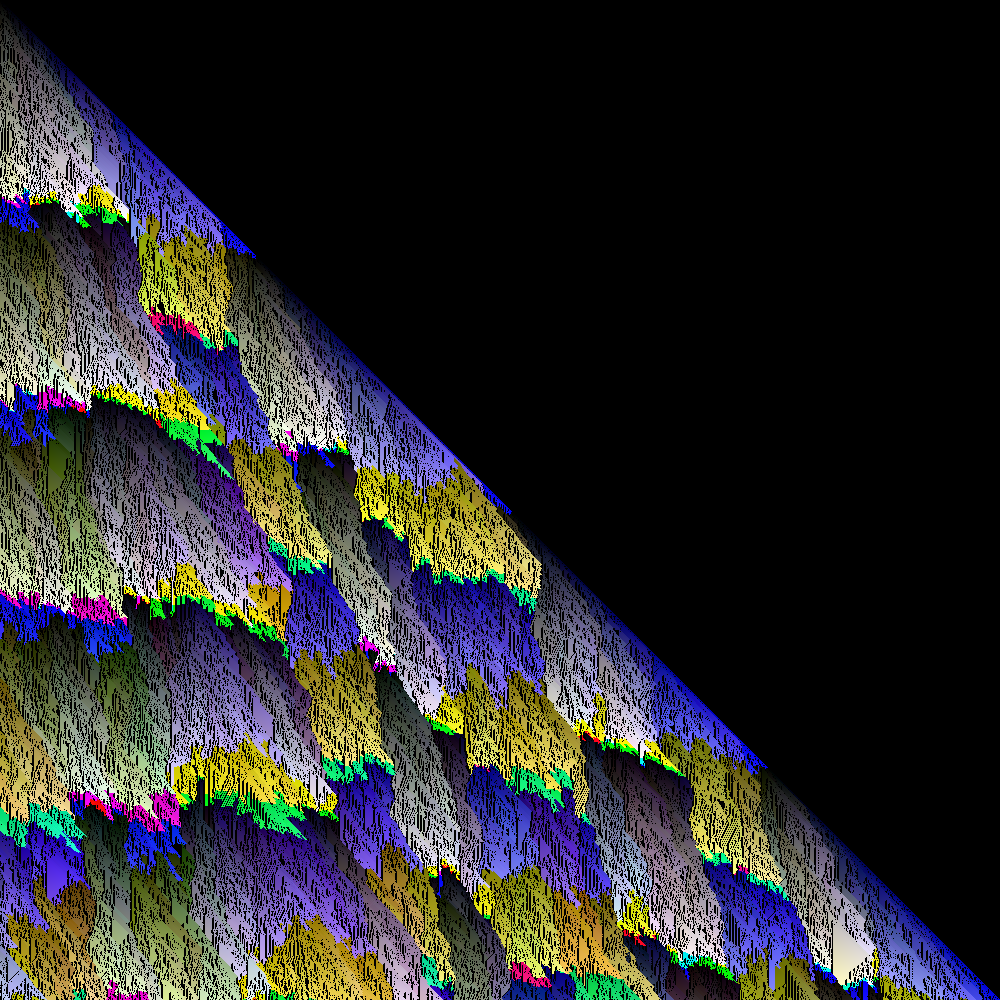
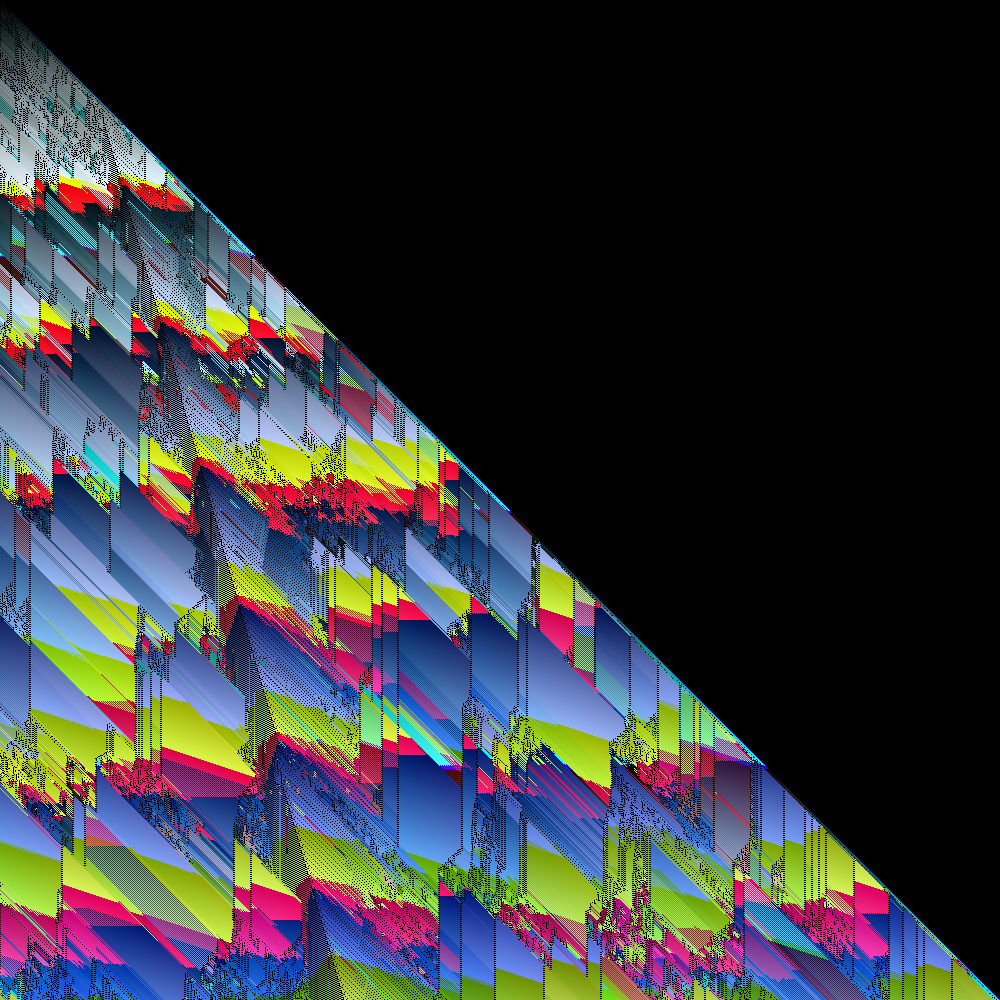
Fixes

diff --git a/moa7.php b/moa7.php
@@ -24,8 +24,8 @@ class Pixel {
 	}
 }
 
-$width = 2000;
-$height = 2000;
+$width = 1000;
+$height = 1000;
 $image = imagecreatetruecolor( $width, $height );
 
 $firstPixel = new Pixel( 0, 0, 0, 0, 0 );
@@ -46,25 +46,26 @@ for ( $y = 0; $y < $height; $y++ ) {
 			$leftPixel = $currentRow[ $x - 1 ];
 			$leftPixel->r++;
 		} else {
-			$leftX = $previousPixel->x - 1;
-			$leftY = $previousPixel->y + 1;
-			$leftR = $previousPixel->r + 1;
-			$leftG = $previousPixel->g;
-			$leftB = $previousPixel->b;
-			$leftPixel = new Pixel( $leftX, $leftY, $leftR, $leftG, $leftB );
+			$leftPixel = $previousPixel;
+			$leftPixel->x--;
+			$leftPixel->y++;
+			$leftPixel->r++;
 		}
-		$currentRow[ $leftX ] = $leftPixel;
+		$currentRow[ $leftPixel->x ] = $leftPixel;
 
 		// Middle pixel
 		if ( array_key_exists( $x, $currentRow ) ) {
 			$middlePixel = $currentRow[ $x ];
 			$middlePixel->g++;
 		} else {
-			$middlePixel = $previousPixel;
-			$middlePixel->y++;
-			$middlePixel->g++;
+			$middleX = $previousPixel->x;
+			$middleY = $previousPixel->y + 1;
+			$middleR = $previousPixel->r;
+			$middleG = $previousPixel->g + 1;
+			$middleB = $previousPixel->b;
+			$middlePixel = new Pixel( $middleX, $middleY, $middleR, $middleG, $middleB );
 		}
-		$currentRow[ $middlePixel->x ] = $middlePixel;
+		$currentRow[ $middleX ] = $middlePixel;
 
 		// Right pixel
 		if ( array_key_exists( $x + 1, $currentRow ) ) {

diff --git a/moa8.php b/moa8.php
@@ -24,8 +24,8 @@ class Pixel {
 	}
 }
 
-$width = 1000;
-$height = 1000;
+$width = 2000;
+$height = 2000;
 $image = imagecreatetruecolor( $width, $height );
 
 $firstPixel = new Pixel( 0, 0, 0, 0, 0 );
@@ -46,26 +46,25 @@ for ( $y = 0; $y < $height; $y++ ) {
 			$leftPixel = $currentRow[ $x - 1 ];
 			$leftPixel->r++;
 		} else {
-			$leftPixel = $previousPixel;
-			$leftPixel->x--;
-			$leftPixel->y++;
-			$leftPixel->r++;
+			$leftX = $previousPixel->x - 1;
+			$leftY = $previousPixel->y + 1;
+			$leftR = $previousPixel->r + 1;
+			$leftG = $previousPixel->g;
+			$leftB = $previousPixel->b;
+			$leftPixel = new Pixel( $leftX, $leftY, $leftR, $leftG, $leftB );
 		}
-		$currentRow[ $leftPixel->x ] = $leftPixel;
+		$currentRow[ $leftX ] = $leftPixel;
 
 		// Middle pixel
 		if ( array_key_exists( $x, $currentRow ) ) {
 			$middlePixel = $currentRow[ $x ];
 			$middlePixel->g++;
 		} else {
-			$middleX = $previousPixel->x;
-			$middleY = $previousPixel->y + 1;
-			$middleR = $previousPixel->r;
-			$middleG = $previousPixel->g + 1;
-			$middleB = $previousPixel->b;
-			$middlePixel = new Pixel( $middleX, $middleY, $middleR, $middleG, $middleB );
+			$middlePixel = $previousPixel;
+			$middlePixel->y++;
+			$middlePixel->g++;
 		}
-		$currentRow[ $middleX ] = $middlePixel;
+		$currentRow[ $middlePixel->x ] = $middlePixel;
 
 		// Right pixel
 		if ( array_key_exists( $x + 1, $currentRow ) ) {

diff --git a/moa5.php b/moa5.php
@@ -46,26 +46,25 @@ for ( $y = 0; $y < $height; $y++ ) {
 			$leftPixel = $currentRow[ $x - 1 ];
 			$leftPixel->r++;
 		} else {
-			$leftPixel = clone $previousPixel;
-			$leftPixel->x--;
-			$leftPixel->y++;
-			$leftPixel->r++;
+			$leftX = $previousPixel->x - 1;
+			$leftY = $previousPixel->y + 1;
+			$leftR = $previousPixel->r + 1;
+			$leftG = $previousPixel->g;
+			$leftB = $previousPixel->b;
+			$leftPixel = new Pixel( $leftX, $leftY, $leftR, $leftG, $leftB );
 		}
-		$currentRow[ $leftPixel->x ] = $leftPixel;
+		$currentRow[ $leftX ] = $leftPixel;
 
 		// Middle pixel
 		if ( array_key_exists( $x, $currentRow ) ) {
 			$middlePixel = $currentRow[ $x ];
 			$middlePixel->g++;
 		} else {
-			$middleX = $previousPixel->x;
-			$middleY = $previousPixel->y + 1;
-			$middleR = $previousPixel->r;
-			$middleG = $previousPixel->g + 1;
-			$middleB = $previousPixel->b;
-			$middlePixel = new Pixel( $middleX, $middleY, $middleR, $middleG, $middleB );
+			$middlePixel = clone $previousPixel;
+			$middlePixel->y++;
+			$middlePixel->g++;
 		}
-		$currentRow[ $middleX ] = $middlePixel;
+		$currentRow[ $middlePixel->x ] = $middlePixel;
 
 		// Right pixel
 		if ( array_key_exists( $x + 1, $currentRow ) ) {

diff --git a/moa3.php b/moa3.php
@@ -60,11 +60,14 @@ for ( $y = 0; $y < $height; $y++ ) {
 			$middlePixel = $currentRow[ $x ];
 			$middlePixel->g++;
 		} else {
-			$middlePixel = clone $previousPixel;
-			$middlePixel->y++;
-			$middlePixel->g++;
+			$middleX = $previousPixel->x;
+			$middleY = $previousPixel->y + 1;
+			$middleR = $previousPixel->r;
+			$middleG = $previousPixel->g + 1;
+			$middleB = $previousPixel->b;
+			$middlePixel = new Pixel( $middleX, $middleY, $middleR, $middleG, $middleB );
 		}
-		$currentRow[ $middlePixel->x ] = $middlePixel;
+		$currentRow[ $middleX ] = $middlePixel;
 
 		// Right pixel
 		if ( array_key_exists( $x + 1, $currentRow ) ) {

diff --git a/moa4.php b/moa4.php
@@ -46,14 +46,12 @@ for ( $y = 0; $y < $height; $y++ ) {
 			$leftPixel = $currentRow[ $x - 1 ];
 			$leftPixel->r++;
 		} else {
-			$leftX = $previousPixel->x - 1;
-			$leftY = $previousPixel->y + 1;
-			$leftR = $previousPixel->r + 1;
-			$leftG = $previousPixel->g;
-			$leftB = $previousPixel->b;
-			$leftPixel = new Pixel( $leftX, $leftY, $leftR, $leftG, $leftB );
+			$leftPixel = clone $previousPixel;
+			$leftPixel->x--;
+			$leftPixel->y++;
+			$leftPixel->r++;
 		}
-		$currentRow[ $leftX ] = $leftPixel;
+		$currentRow[ $leftPixel->x ] = $leftPixel;
 
 		// Middle pixel
 		if ( array_key_exists( $x, $currentRow ) ) {

diff --git a/README.md b/README.md
@@ -2,6 +2,6 @@
 
 So I was trying to create a very simple image, a sort of Pascal's triangle but adding RGB values instead of numbers (see the chromatic-pascal-triangle folder). In the way I got some cool errors (see errors 1, 2 and 3). But the fourth error was different.
 
-Out of nowhere, a very complex, organic and beautiful structure appeared before me. I did NOT expect that. I was shocked, amazed. I spent the rest of the afternoon playing with the code, which I still DO NOT understand. I'm leaving the most interesting results. If someone can explain me even a fraction of what's going on, I'll be indebted.
+Out of nowhere, a very complex, organic and beautiful structure appeared before me. I did NOT expect that. I was shocked, amazed. I spent the rest of the day playing with the code, but I still can't understand it. I'm leaving the most interesting results. If someone can explain me what's going on, I'll be really thankful.
 
 I lost the code for moa1, moa2 and moa6, sorry.
